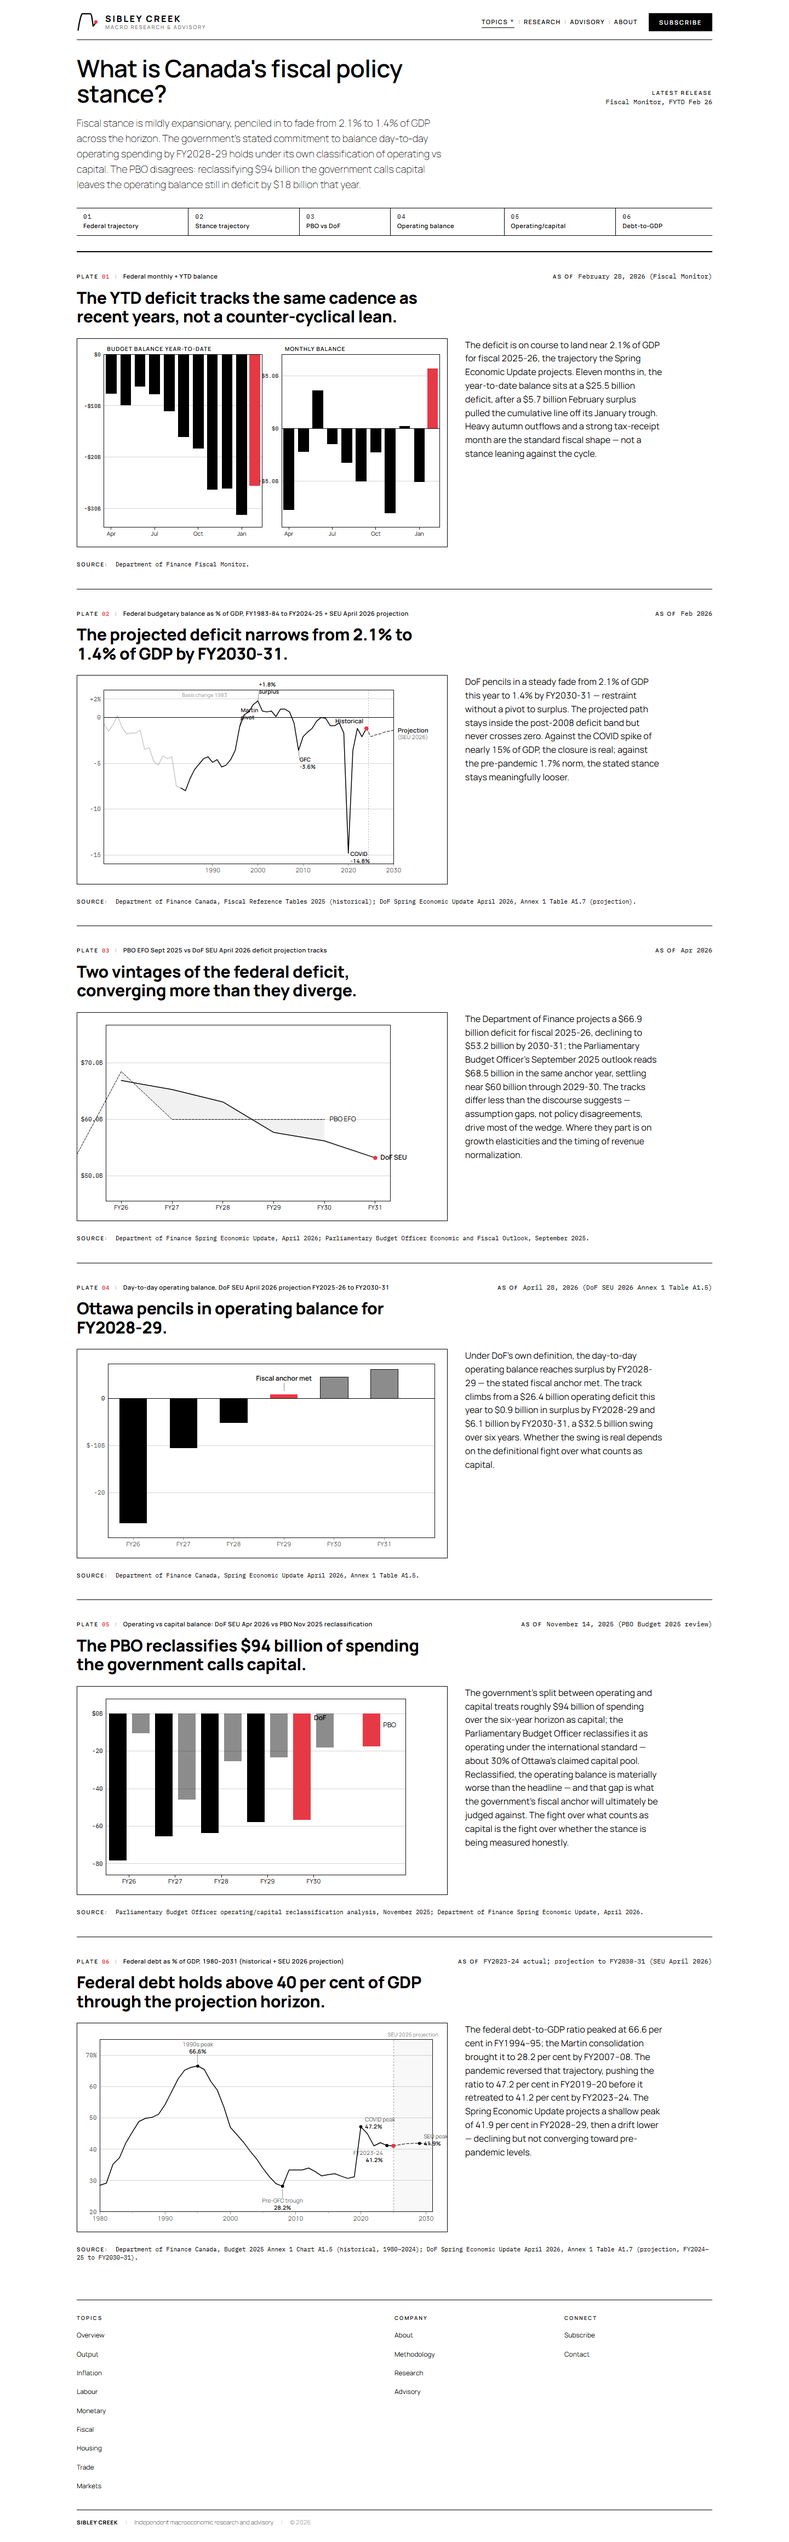
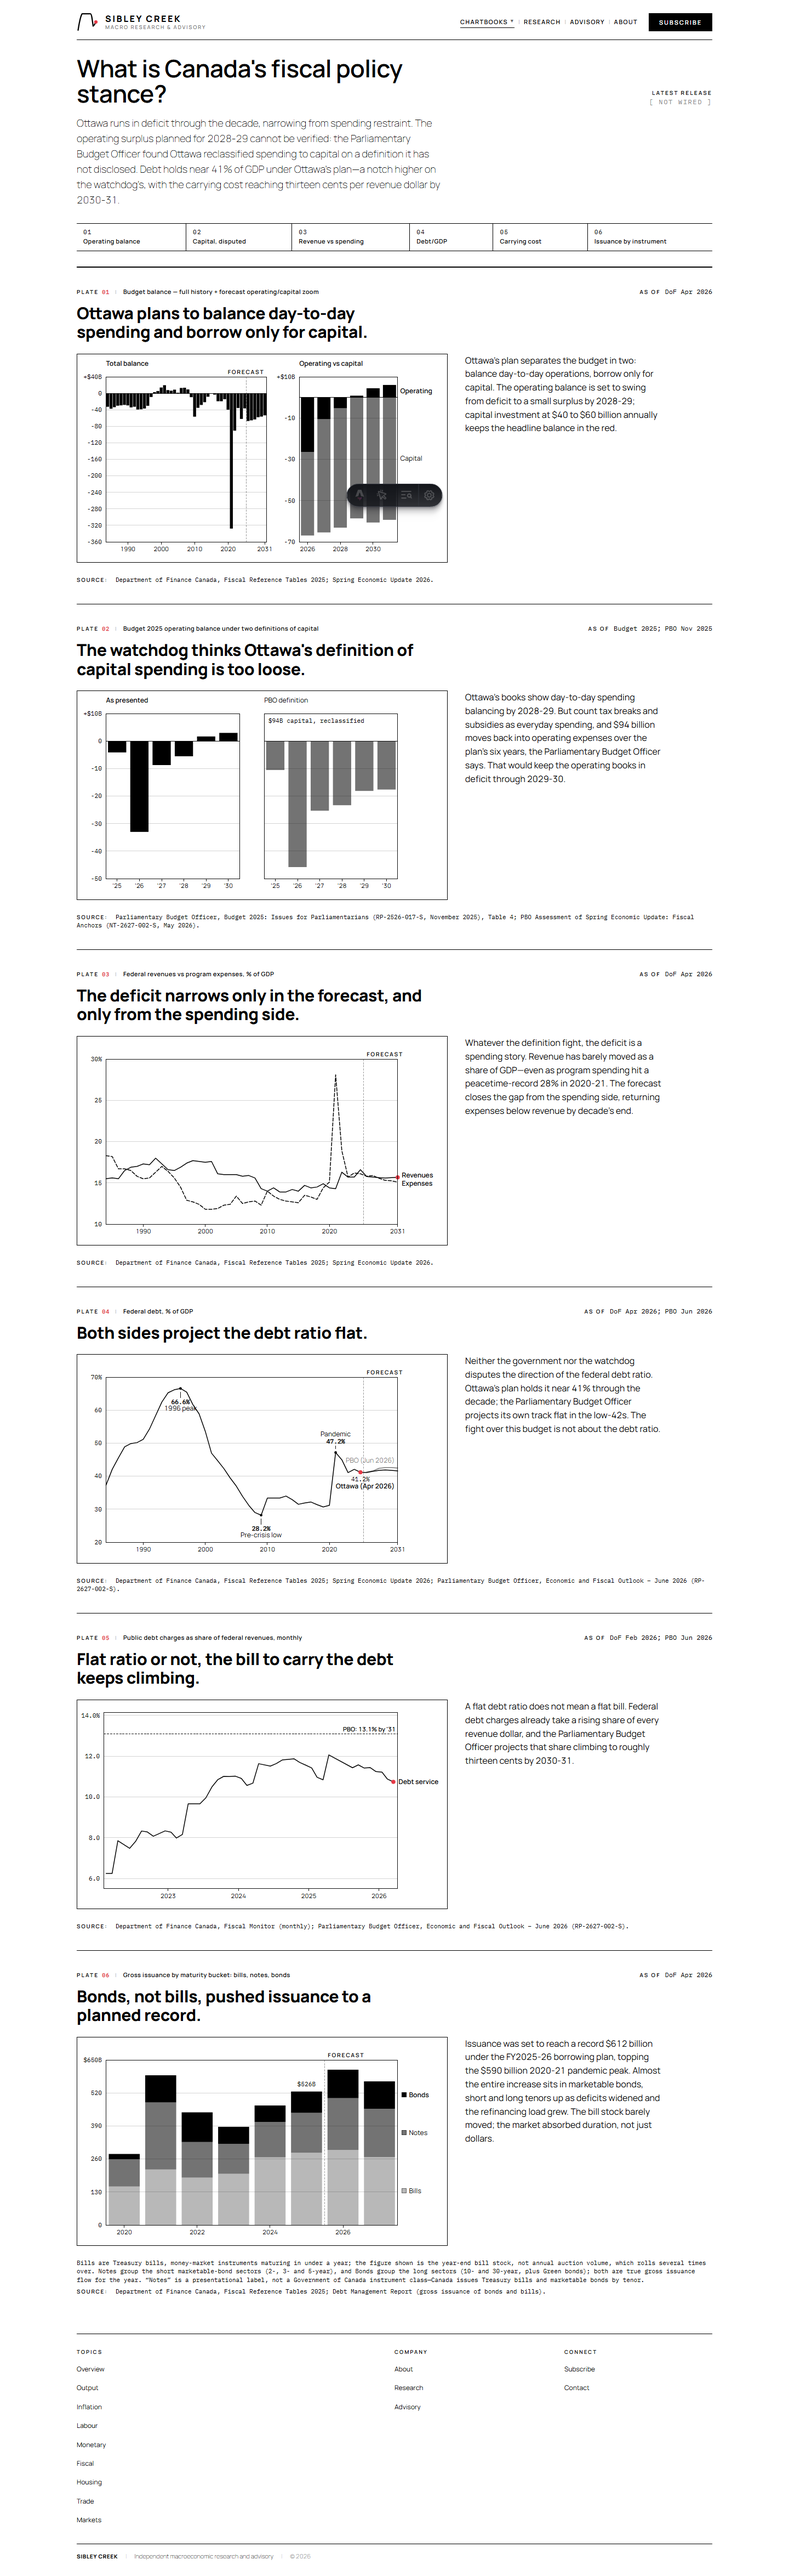
fiscal: publish flip — overview panel live, splash carousel unfiltered, noindex dropped; restore debt-service-share print off materialized derived series

diff --git a/pipeline/io/site_data.py b/pipeline/io/site_data.py
@@ -672,12 +672,33 @@ SUPPORTING_PRINTS: dict[str, tuple[SupportingPrintSpec, ...]] = {
             ),
         ),
     ),
-    # "fiscal" debt-service-share tile removed 2026-05-28: raw CSVs
-    # (public_debt_charges_ytd, revenues_ytd) are not present in data/raw/,
-    # which caused the partner_share transform to fall back to "TK" and
-    # render as visible placeholders on /overview/. Restore this entry
-    # once the upstream DoF Fiscal Monitor pipeline writes those CSVs.
-    "fiscal": (),
+    # "fiscal" debt-service-share print restored 2026-06-05. The 2026-05-28
+    # removal note cited missing raw CSVs (public_debt_charges_ytd,
+    # revenues_ytd) for a partner_share transform; the ratio is now
+    # materialized directly as data/derived/debt_service_ratio.csv (monthly,
+    # already in %, public debt charges / revenues, 12m trailing — the same
+    # series the /fiscal/ plate-5 chart reads), so no transform is needed.
+    "fiscal": (
+        SupportingPrintSpec(
+            key="debt-service-share",
+            indicator="Debt service / revenues",
+            primary_series="debt_service_ratio",
+            primary_dir="derived",
+            unit_display="%",
+            value_decimals=1,
+            delta_decimals=1,
+            delta_unit="pp",
+            delta_kind="pp",
+            as_of_format="month-year",
+            notes=(
+                "Public debt charges as a share of federal revenues, monthly, "
+                "12m trailing, derived in the fiscal pipeline (same series as "
+                "the /fiscal/ debt-service plate). Delta is m/m in percentage "
+                "points. Rising share = more of each revenue dollar consumed "
+                "by interest."
+            ),
+        ),
+    ),
     "markets": (
         SupportingPrintSpec(
             key="goc-10y",
